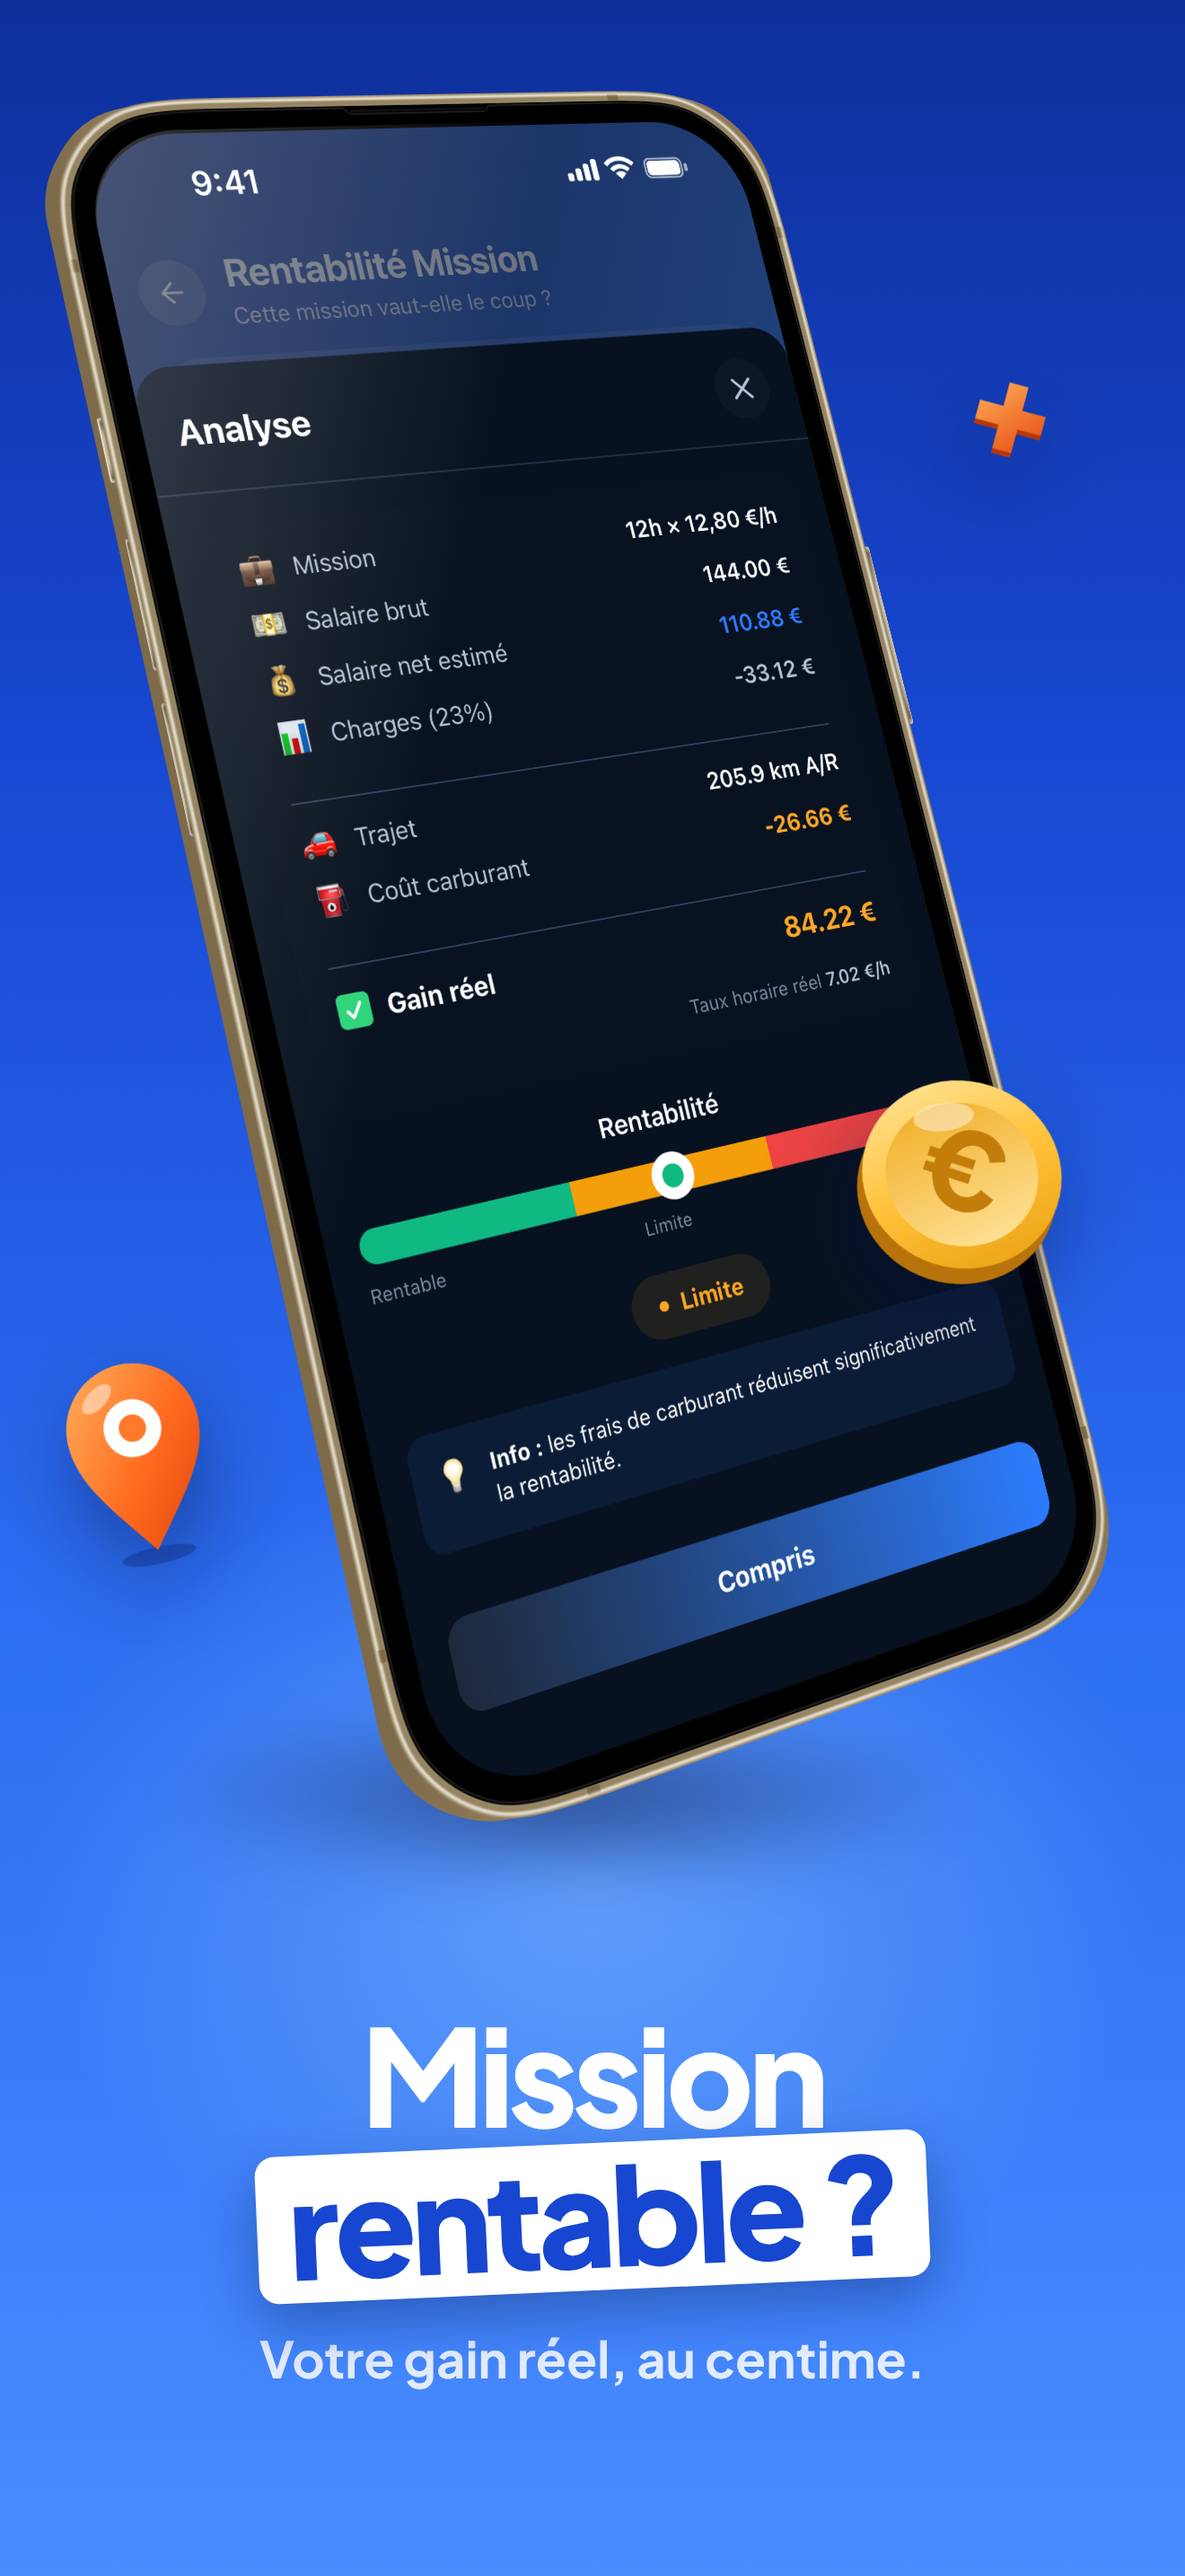
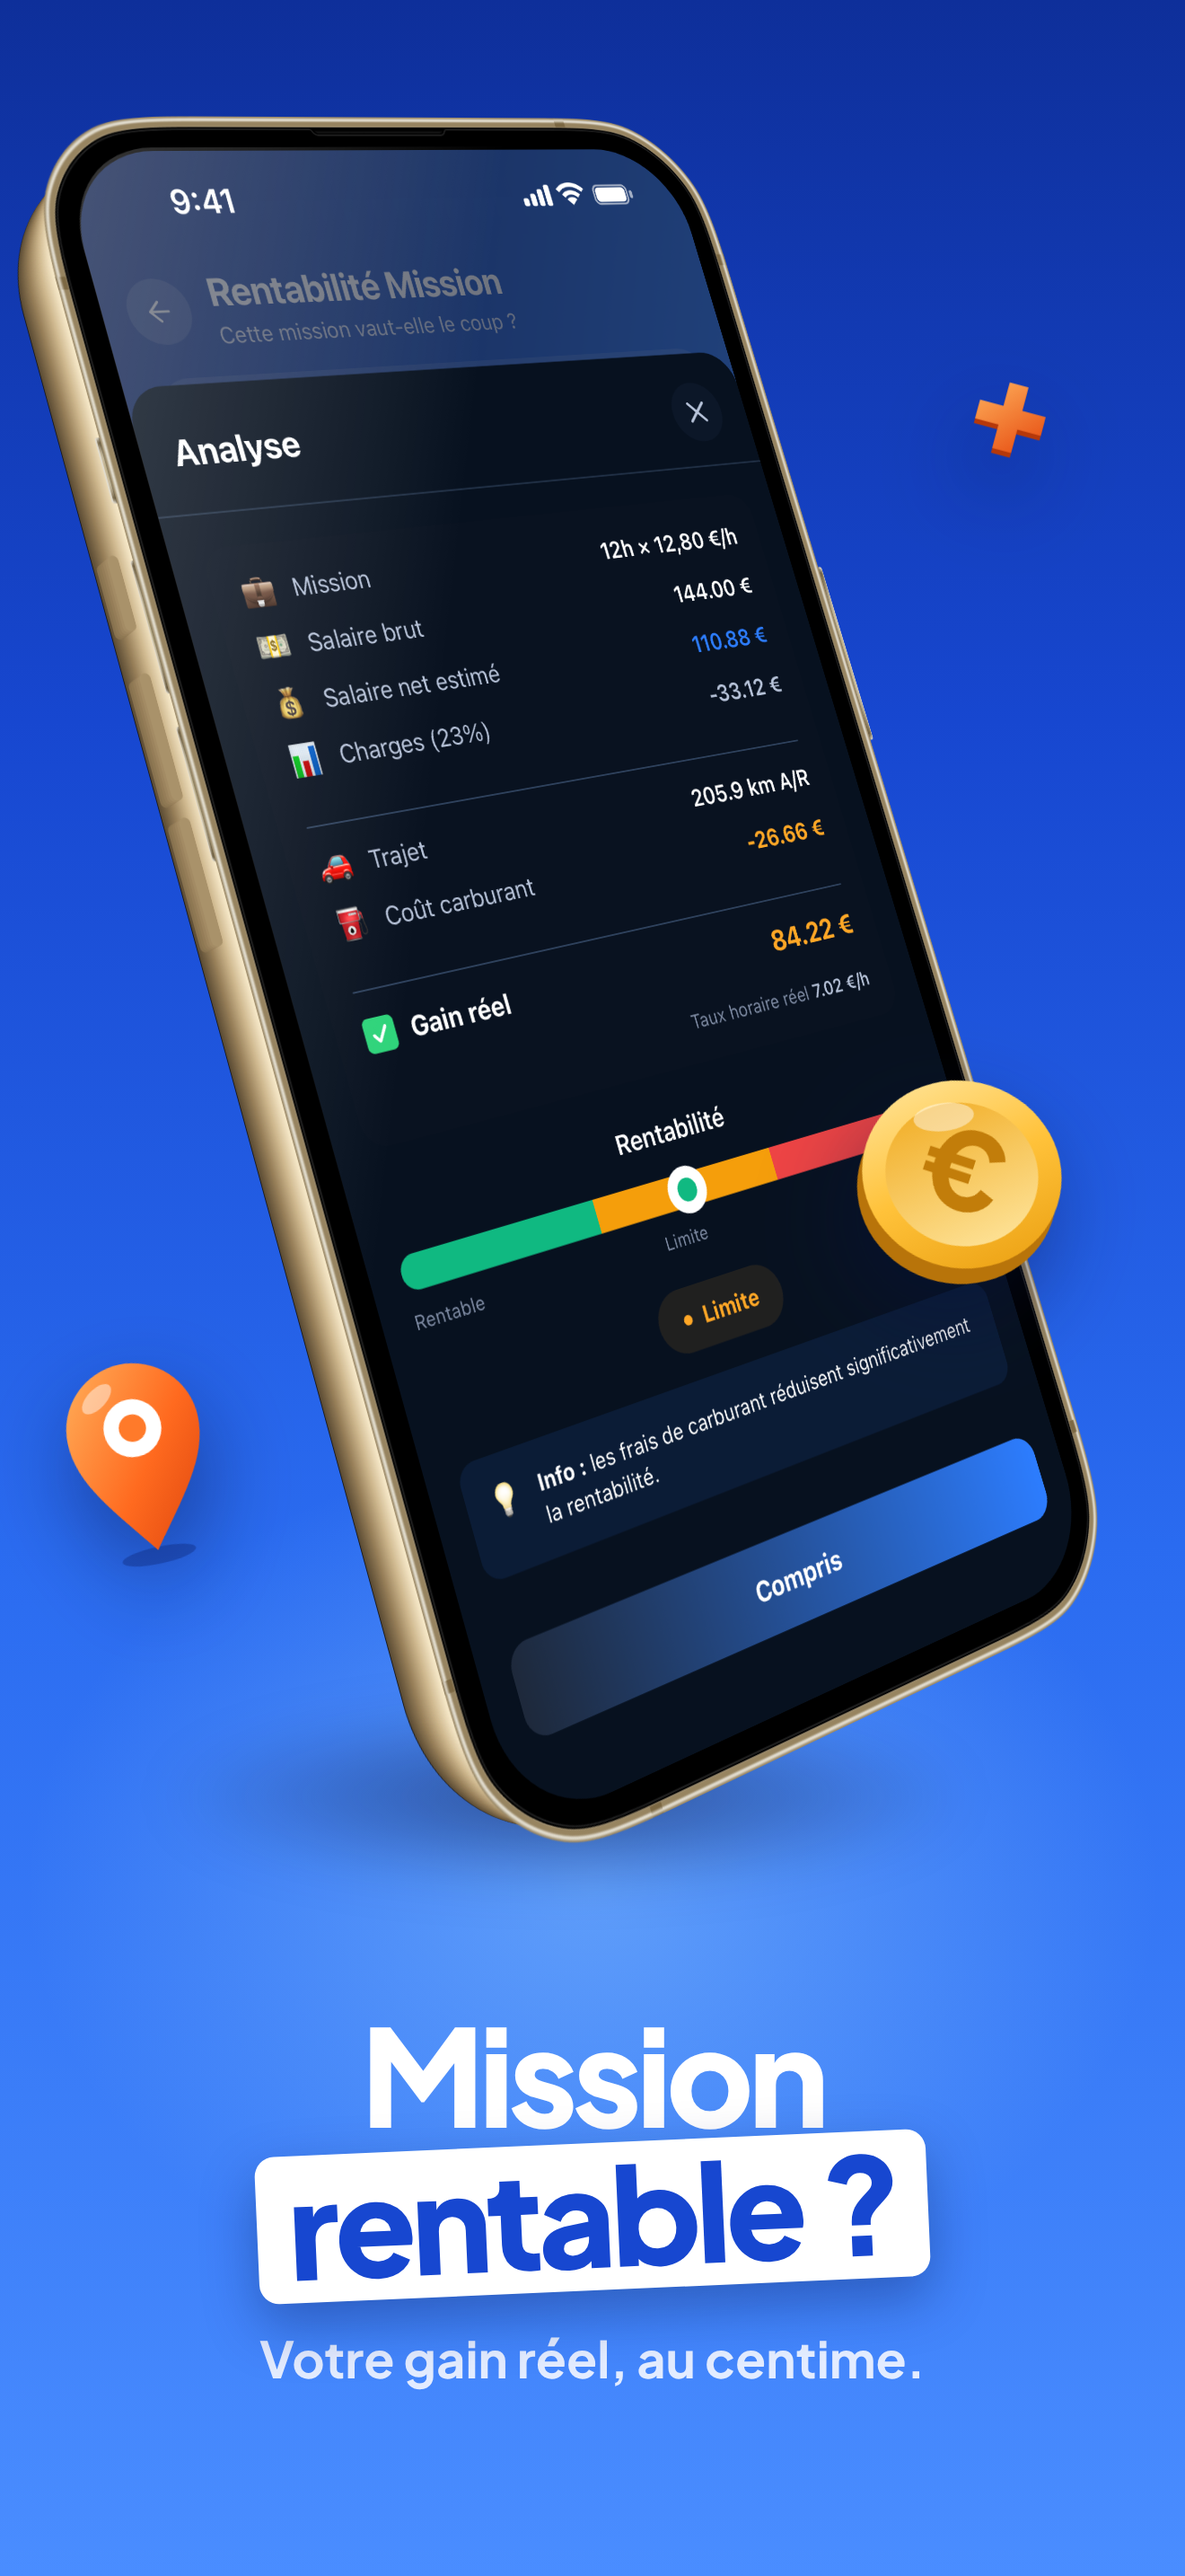
Give 3D phones real thickness, side buttons and stronger tilt
Claude-Session: https://claude.ai/code/session_01XiS2iAPrhN4xxrmahaDJ6q

Changed region(s): [[0.0, 0.031, 0.9008, 0.7137], [0.8386, 0.4655, 0.9318, 0.6206], [0.7455, 0.4965, 0.8076, 0.5275]]

diff --git a/agent-plus/deck-3d.html b/agent-plus/deck-3d.html
@@ -20,7 +20,9 @@
   /* Téléphone 3D : cadre + écran + tranche simulée par des couches */
   .scene{position:absolute;perspective:3200px;z-index:3}
   .p3{position:relative;width:1000px;aspect-ratio:1022/2082;transform-style:preserve-3d}
-  .p3 .edge{position:absolute;inset:0.4% 0.6%;border-radius:13%/6.4%;background:linear-gradient(90deg,#7d6a4a,#c9b08a 40%,#8a7553)}
+  .p3 .edge,.p3 .back{position:absolute;inset:0.3% 0.6%;border-radius:19.6%/9.6%}
+  .p3 .back{background:#16171C}
+  .p3 .btn{position:absolute;width:14px;border-radius:7px}
   .p3 .frame,.p3 .screen{position:absolute;transform:translateZ(1px)}
   .p3 .frame{inset:0;width:100%;height:100%}
   .p3 .screen{left:5.088%;top:2.209%;width:89.824%;height:95.581%;border-radius:13.7%/6.33%;overflow:hidden;transform:translateZ(2px)}
@@ -87,9 +89,18 @@ plus:(w)=>`<svg width="${w}" viewBox="0 0 100 100"><defs><linearGradient id="pl"
   <path d="M38 8h24v30h30v24H62v30H38V62H8V38h30z" fill="#B5380A" transform="translate(0 6)"/><path d="M38 8h24v30h30v24H62v30H38V62H8V38h30z" fill="url(#pl)"/></svg>`,
 };
 const deco = (k,x,y,w,rot=0)=>`<div class="deco" style="left:${x}px;top:${y}px;transform:rotate(${rot}deg)">${D[k](w)}</div>`;
+// Épaisseur réelle : 48 couches sur ~96 px, du doré clair (avant) au bronze foncé (arrière),
+// un dos sombre et les boutons latéraux en relief.
+const mix=(a,b,t)=>a.map((v,i)=>Math.round(v+(b[i]-v)*t));
+const edgeColor=(t)=>{const s=[[246,232,200],[205,182,140],[150,126,88],[92,76,52]];
+  const k=Math.min(2,Math.floor(t*3)),u=t*3-k;return `rgb(${mix(s[k],s[k+1],u).join(',')})`;};
+const buttons=(z)=>[['left',-9,520,90],['left',-9,660,150],['left',-9,830,150],['right',-9,700,230]]
+  .map(([side,off,top,h])=>`<div class="btn" style="${side}:${off}px;top:${top}px;height:${h}px;background:${edgeColor(.35+z/60*.4)};transform:translateZ(${-z}px)"></div>`).join('');
 const phone = (img,x,y,ry,rx,rz,scale=1)=>`
   <div class="scene" style="left:${x}px;top:${y}px"><div class="p3" style="transform:scale(${scale}) rotateY(${ry}deg) rotateX(${rx}deg) rotateZ(${rz}deg)">
-  ${Array.from({length:16},(_,i)=>`<div class="edge" style="transform:translateZ(${-(i+1)*2.4}px)"></div>`).join('')}
+  <div class="back" style="transform:translateZ(-98px)"></div>
+  ${Array.from({length:48},(_,i)=>`<div class="edge" style="background:${edgeColor(i/47)};transform:translateZ(${-(i+1)*2}px)"></div>`).join('')}
+  ${[30,36,42,48,54,60].map(buttons).join('')}
   <img class="frame" src="src/mockup.png"><div class="screen"><img src="clean/${img}.png"></div><div class="glare"></div></div></div>`;
 const chip = (side,y,ic,k,v)=>`<div class="chip" style="${side}:40px;top:${y}px"><div class="ic">${ic}</div><div><div class="k">${k}</div><div class="v">${v}</div></div></div>`;
 
@@ -97,24 +108,24 @@ const E = {
   // 1. Téléphone incliné vers la droite, titre en haut avec mot surligné, calendrier 3D
   e1:()=>`<div class="head" style="top:170px"><h1><mark>Planning</mark><br>intelligent.</h1><div class="sub">Heures et salaire calculés.</div></div>
     <div class="shadow" style="left:260px;top:2560px;width:900px;height:220px"></div>
-    ${phone('planning',200,880,-24,10,7)}
+    ${phone('planning',180,900,-32,14,8)}
     ${deco('calendar',930,700,300,12)}${deco('plus',90,860,110,-14)}
     ${chip('left',2290,'€','Salaire estimé','<span class="g">2 390 €</span>')}`,
   // 2. Téléphone incliné vers la gauche, titre en bas (comme ta 2e capture), pièce + épingle
   e2:()=>`<div class="shadow" style="left:180px;top:1900px;width:900px;height:200px"></div>
-    ${phone('rentabilite',170,-40,26,12,-9,.92)}
+    ${phone('rentabilite',170,-20,34,14,-10,.92)}
     ${deco('coin',940,1180,260,18)}${deco('pin',60,1500,190,-12)}${deco('plus',1080,420,90,15)}
     <div class="head" style="top:2230px"><h1>Mission<br><mark>rentable ?</mark></h1><div class="sub">Votre gain réel, au centime.</div></div>`,
   // 3. Téléphone presque droit, légère rotation, bouclier sécurité
   e3:()=>`<div class="head" style="top:170px"><h1>Bulletin<br><mark>vérifié</mark></h1><div class="sub">SMIC, taux, coefficient.</div></div>
     <div class="shadow" style="left:240px;top:2620px;width:860px;height:200px"></div>
-    ${phone('bulletin-analyse',160,860,-10,4,-4)}
+    ${phone('bulletin-analyse',160,860,-22,8,-5)}
     ${deco('shield',920,820,300,10)}${deco('coin',40,2250,220,-16)}`,
   // 4. Deux téléphones superposés en perspective, cadenas
   e4:()=>`<div class="head" style="top:170px"><h1>Vos données<br><mark>restent privées</mark></h1><div class="sub">Analysées sur l’iPhone.</div></div>
     <div class="shadow" style="left:120px;top:2600px;width:1080px;height:220px"></div>
-    ${phone('scanner',-150,1020,28,8,-6,.82)}
-    ${phone('carriere',420,900,-26,8,6,.86)}
+    ${phone('scanner',-150,1020,34,10,-6,.82)}
+    ${phone('carriere',420,900,-32,10,6,.86)}
     ${deco('lock',960,760,240,12)}${deco('plus',60,900,100,-10)}`,
 };
 const id = new URLSearchParams(location.search).get('s') || 'e1';
